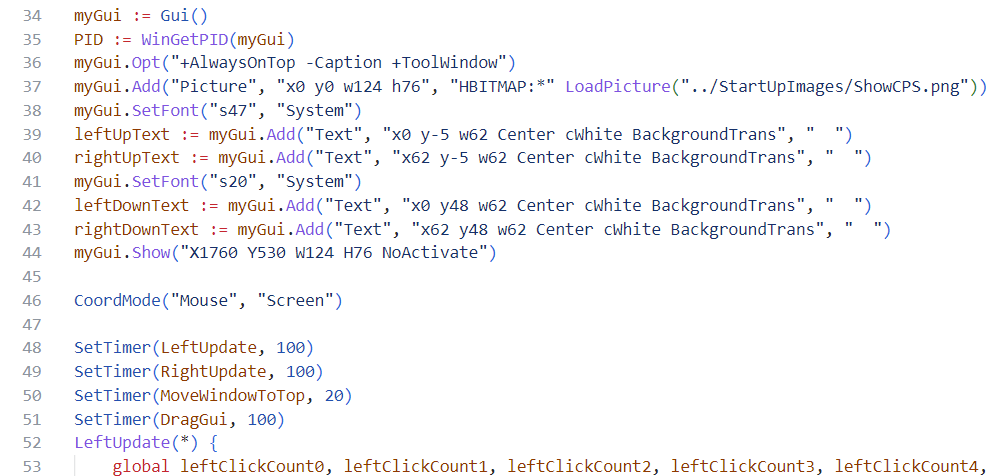
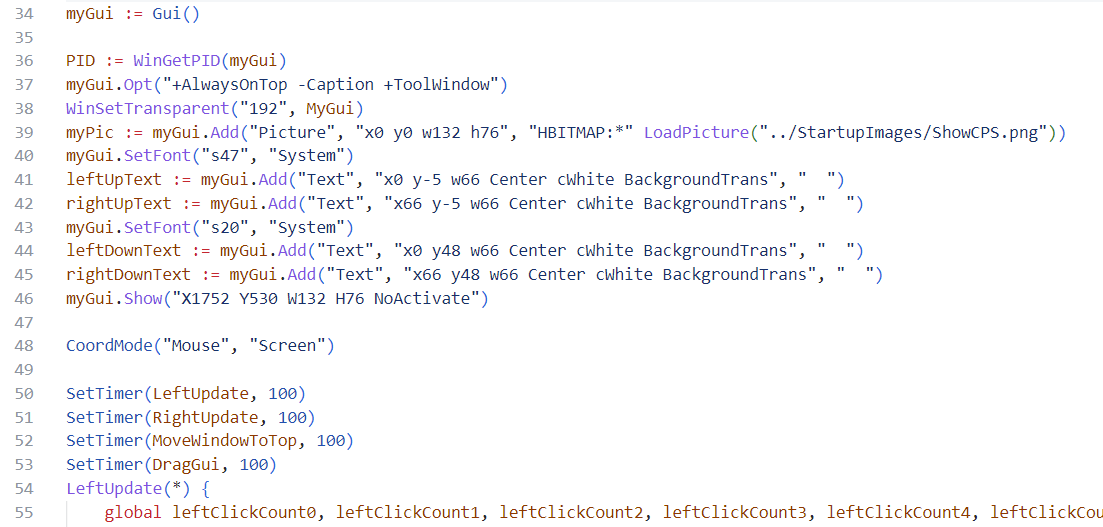
Made the Window Semi-Transparent and Wider

diff --git a/README.md b/README.md
@@ -29,11 +29,12 @@
 	* 累计点击次数指窗口运行期间的总点击次数
 * 窗口保持在顶部，不会被覆盖
 * 可以用鼠标左键拖动窗口
+* 窗口有75%的不透明度
 * 可以通过在任务栏中右键关闭ShowCPS.ahk来关闭窗口
 * 窗口时不时地会闪烁，应该是文字框的问题，未找到解决办法
-* 每秒点击次数超过99，累计点击次数超过9999时会穿模
+* 每秒点击次数超过99，累计点击次数超过99999时会穿模
 	* 每秒点击次数超过99，人类无法做到
-	* 累计点击次数超过9999是可能的，但由于这个穿模只是擦个边而已，完全能看清数字，而且AHK的字体大小灵敏度极低(调小一档后会比现在小很多)，所以不再修改
+	* 累计点击次数超过99999也不纳入考虑范围内
 * 玩游戏时千万不能点到它，会切换窗口，未找到解决办法
 * Fun Facts
 	* 玩一局PvZ泳池无尽大概会点1300次左键，10次右键，左键CPS在最忙的时候会达到5或6
